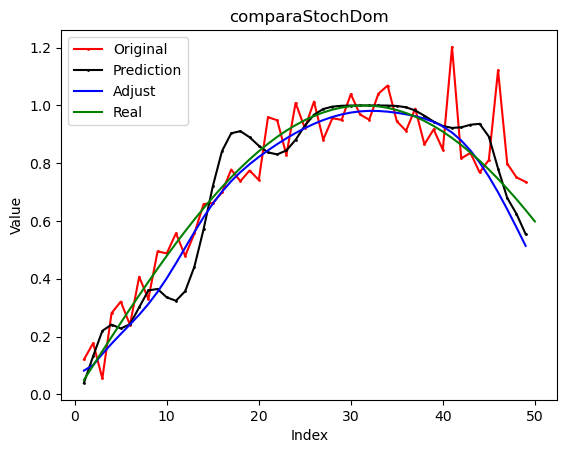
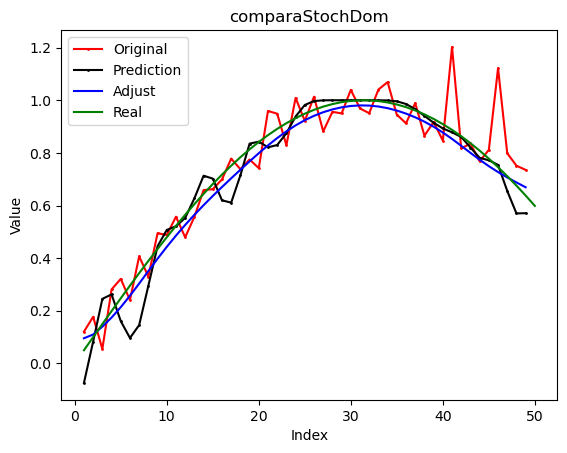
refactor: removed c=0.2 and removed print

diff --git a/main/main.py b/main/main.py
@@ -51,7 +51,7 @@ datostrain = array(datostrain)
 # -----------------------------------------------#
 # -----------------------------------------------#
 
-modelo = LowQualityData.LowQualityData(c=0.20)
+modelo = LowQualityData.LowQualityData()
 modelo.setLabel("comparaStochDom")
 # -----------------------------------------------#
 # -----------------------------------------------#

diff --git a/functions/LowQualityData.py b/functions/LowQualityData.py
@@ -86,8 +86,6 @@ class LowQualityData():
 
 		f = open('..\\resources\\results\\output-crisp.csv', 'w')
 		f.write('Index;Original;Prediction;Adjust\n')
-		print("PREDICHO")
-		print(predicho)
 		for i in range(len(self.prediccion) - 1):
 			f.write(str(self.datos[i, 0]) + ';' + str(self.original[i, 1]) + ';' + str(self.prediccion[i]) + ';' + str(
 				predicho[i]) + '\n')
